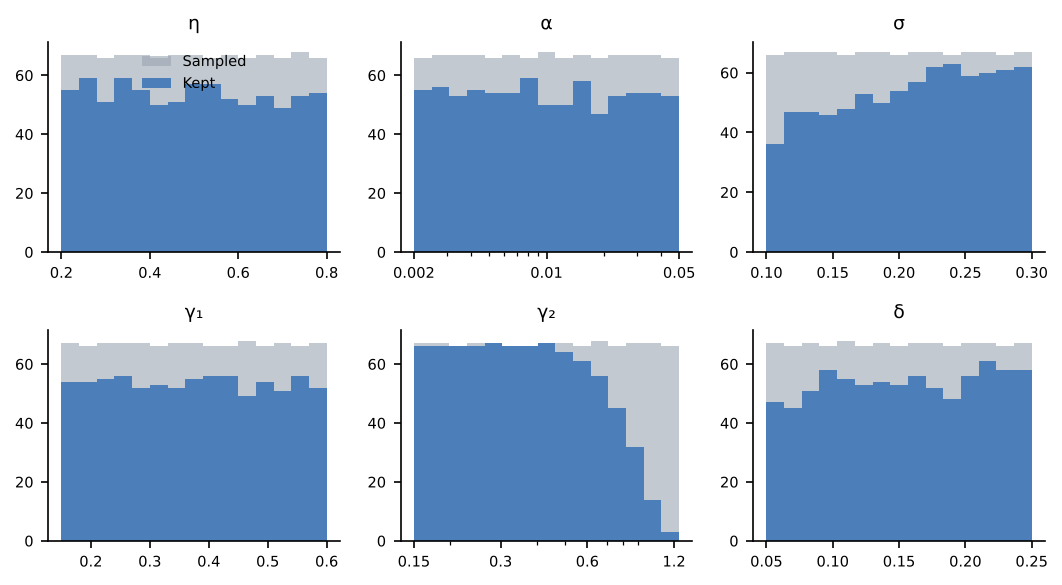
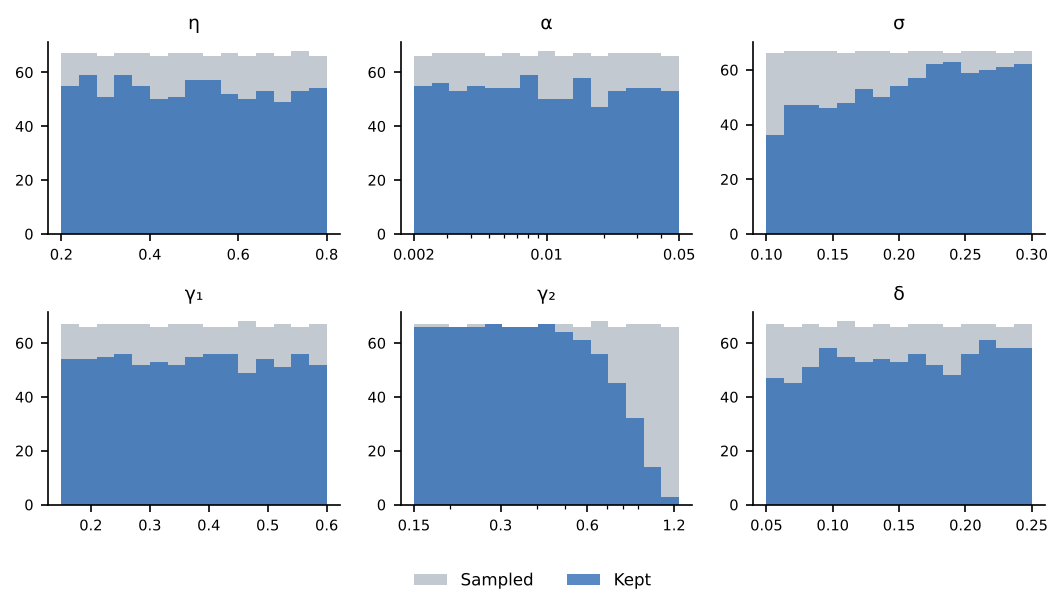
Explicit line styles and legend placement for figures; regenerate colour figures
Claude-Session: https://claude.ai/code/session_01MRaLLLSnG8fXvc2vithW55

diff --git a/python/ext_calibration.py b/python/ext_calibration.py
@@ -59,8 +59,9 @@ def sec1(rows, ok):
             ax.xaxis.set_major_locator(FixedLocator(ticks)); ax.xaxis.set_major_formatter(FixedFormatter([str(t) for t in ticks]))
             ax.xaxis.set_minor_formatter(NullFormatter())
         ax.set_title(labels[k], fontsize=9); ax.tick_params(labelsize=7)
-    axs[0, 0].legend(frameon=False, fontsize=7)
-    fig.tight_layout(); fig.savefig(FIG / "fig_calx_kept.png"); plt.close(fig)
+    h, l = axs[0, 0].get_legend_handles_labels()
+    fig.legend(h, l, frameon=False, fontsize=8, loc="lower center", ncol=2, bbox_to_anchor=(0.5, -0.02))
+    fig.tight_layout(rect=(0, 0.06, 1, 1)); fig.savefig(FIG / "fig_calx_kept.png"); plt.close(fig)
     # share of kept by gamma2 tercile of its range
     g2 = np.array([r["gamma2"] for r in rows]); kept = np.array([r["ok"] for r in rows])
     edges = np.geomspace(0.15, 1.25, 4)
@@ -133,8 +134,8 @@ def sec2(ok):
     P = np.loadtxt(OUT / "projection_P.csv", delimiter=","); T = np.loadtxt(OUT / "projection_T.csv", delimiter=",")
     G = np.array([x[1] for x in res["G"]]); T1 = np.array([x[1] for x in res["T1"]])
     fig, ax = plt.subplots(figsize=(6.4, 3.6))
-    for arr, col, lab, ls in [(P, C1, "P: persistent shift in 2018", "-"), (G, C3, "G: gradual rise 2018 to 2022", "-"),
-                              (T, C2, "T: shock 2020 to 2021", "-"), (T1, INK, "T1: shock in 2021 only", "--")]:
+    for arr, col, lab, ls in [(P, C1, "P: persistent shift in 2018", "-"), (G, C3, "G: gradual rise 2018 to 2022", ":"),
+                              (T, C2, "T: shock 2020 to 2021", "-."), (T1, INK, "T1: shock in 2021 only", "--")]:
         ax.plot(YEARS, np.median(arr, 0) * 100, color=col, lw=2, ls=ls, label=lab)
         ax.fill_between(YEARS, np.percentile(arr, 5, 0) * 100, np.percentile(arr, 95, 0) * 100, color=col, alpha=0.08, lw=0)
     ax.errorbar([2018, 2022], [7, 11], yerr=0.5, fmt="o", color=GREY, capsize=3)

diff --git a/python/dpm/bw.py b/python/dpm/bw.py
@@ -89,6 +89,22 @@ def _style_patch(p, hatch_ok=True):
             p.set_linestyle(ls)
 
 
+def _legend_rect(fig):
+    """Reserve room for figure-level legends above or below the axes when re-laying out."""
+    if not fig.legends:
+        return (0, 0, 1, 1)
+    fig.canvas.draw()
+    inv = fig.transFigure.inverted()
+    lo, hi = 0.0, 1.0
+    for lg in fig.legends:
+        bb = lg.get_window_extent().transformed(inv)
+        if bb.y1 < 0.5:
+            lo = max(lo, bb.y1 + 0.01)
+        else:
+            hi = min(hi, bb.y0 - 0.01)
+    return (0, lo, 1, hi)
+
+
 def install(plt):
     import matplotlib.axes as maxes
     import matplotlib.figure as mfig
@@ -141,7 +157,9 @@ def install(plt):
         seq = patches if isinstance(patches, (list, tuple)) else [patches]
         for grp in seq:
             for p in (grp if hasattr(grp, "__iter__") else [grp]):
-                _style_patch(p, hatch_ok=False)
+                _style_patch(p, hatch_ok=False); p.set_hatch(None)
+                if p.get_fill():
+                    p.set_edgecolor("none")
 
     def bars_post(out):
         for p in out.patches:
@@ -178,7 +196,7 @@ def install(plt):
                 data.set_linestyle(ls)
             data.set_linewidth(data.get_linewidth() * LW_SCALE)
         for c in caps:
-            c.set_color(col)
+            c.set_color(col); c.set_markeredgecolor(col); c.set_markerfacecolor(col)
         for b in bars:
             b.set_color(col); b.set_linewidth(0.8)
     wrap("errorbar", errorbar_post)
@@ -214,7 +232,7 @@ def install(plt):
             self.set_size_inches(TEXT_WIDTH_IN, h * TEXT_WIDTH_IN / w)
         try:
             if not self.get_constrained_layout():
-                self.tight_layout()
+                self.tight_layout(rect=_legend_rect(self))
         except Exception:
             pass
         k.pop("dpi", None)

diff --git a/python/ext_recovery.py b/python/ext_recovery.py
@@ -560,7 +560,7 @@ def fig_item(item_E, arms):
                             label=f"{'Low' if noise == 'low' else 'High'} noise, {n:,}" if (a_i == 0 and tr_i == 0) else None)
         ax.axvline(0, color=ra.INK, lw=0.6)
         ax.set_yticks(range(len(arms))); ax.set_yticklabels([ITEM_LABELS[a] for a in arms], fontsize=7.5)
-        ax.set_title(title, fontsize=9); ax.set_xlabel("Relative bias (%) with 95% Monte Carlo interval", fontsize=8)
+        ax.set_title(title, fontsize=9); ax.set_xlabel("Relative bias (%)", fontsize=8)
     axs[0].invert_yaxis()
     h, l = axs[0].get_legend_handles_labels()
     fig.legend(h, l, frameon=False, fontsize=7.5, loc="lower center", ncol=2, bbox_to_anchor=(0.6, -0.02))
